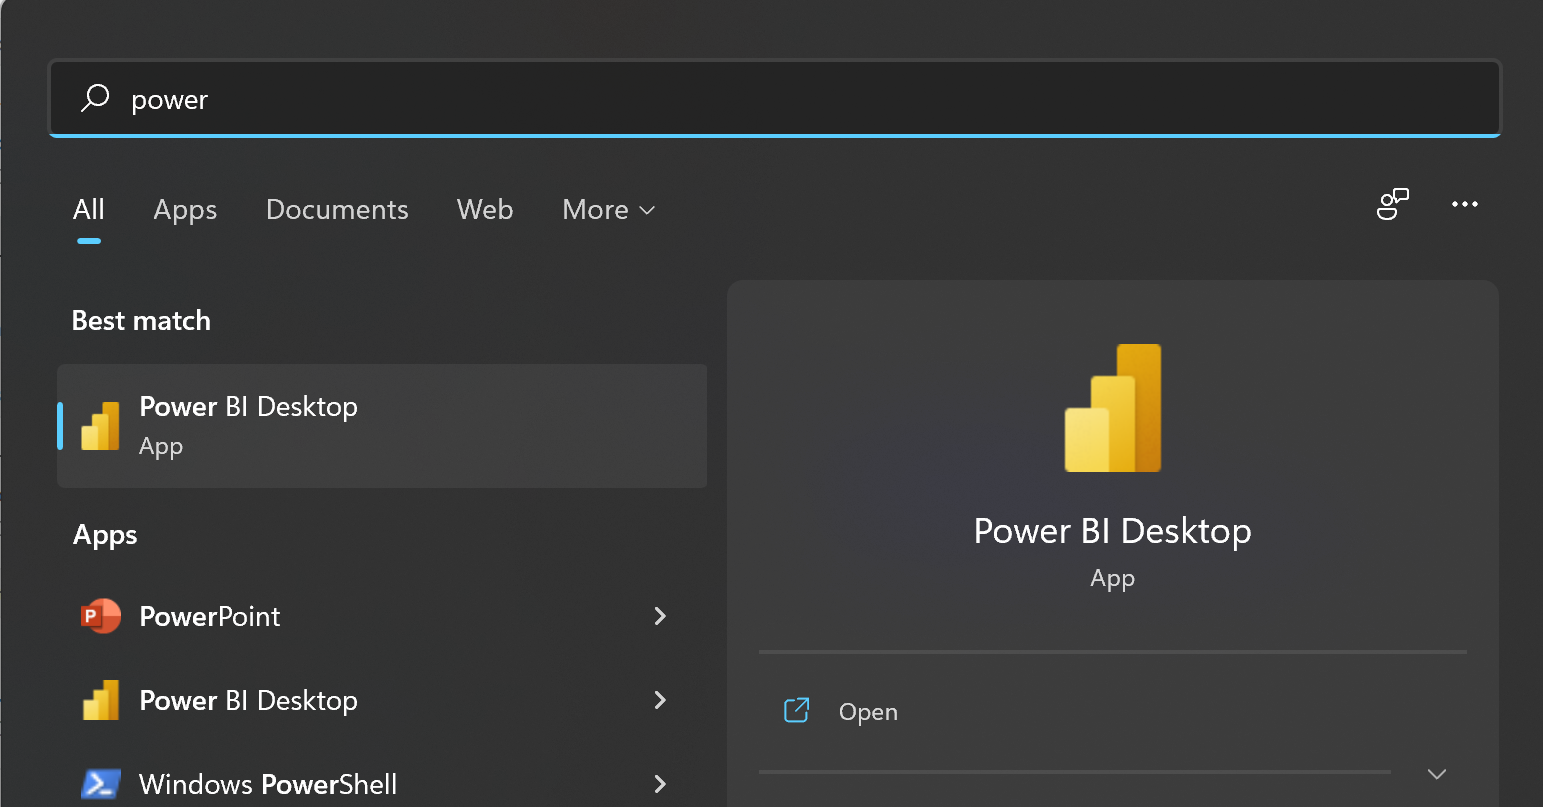
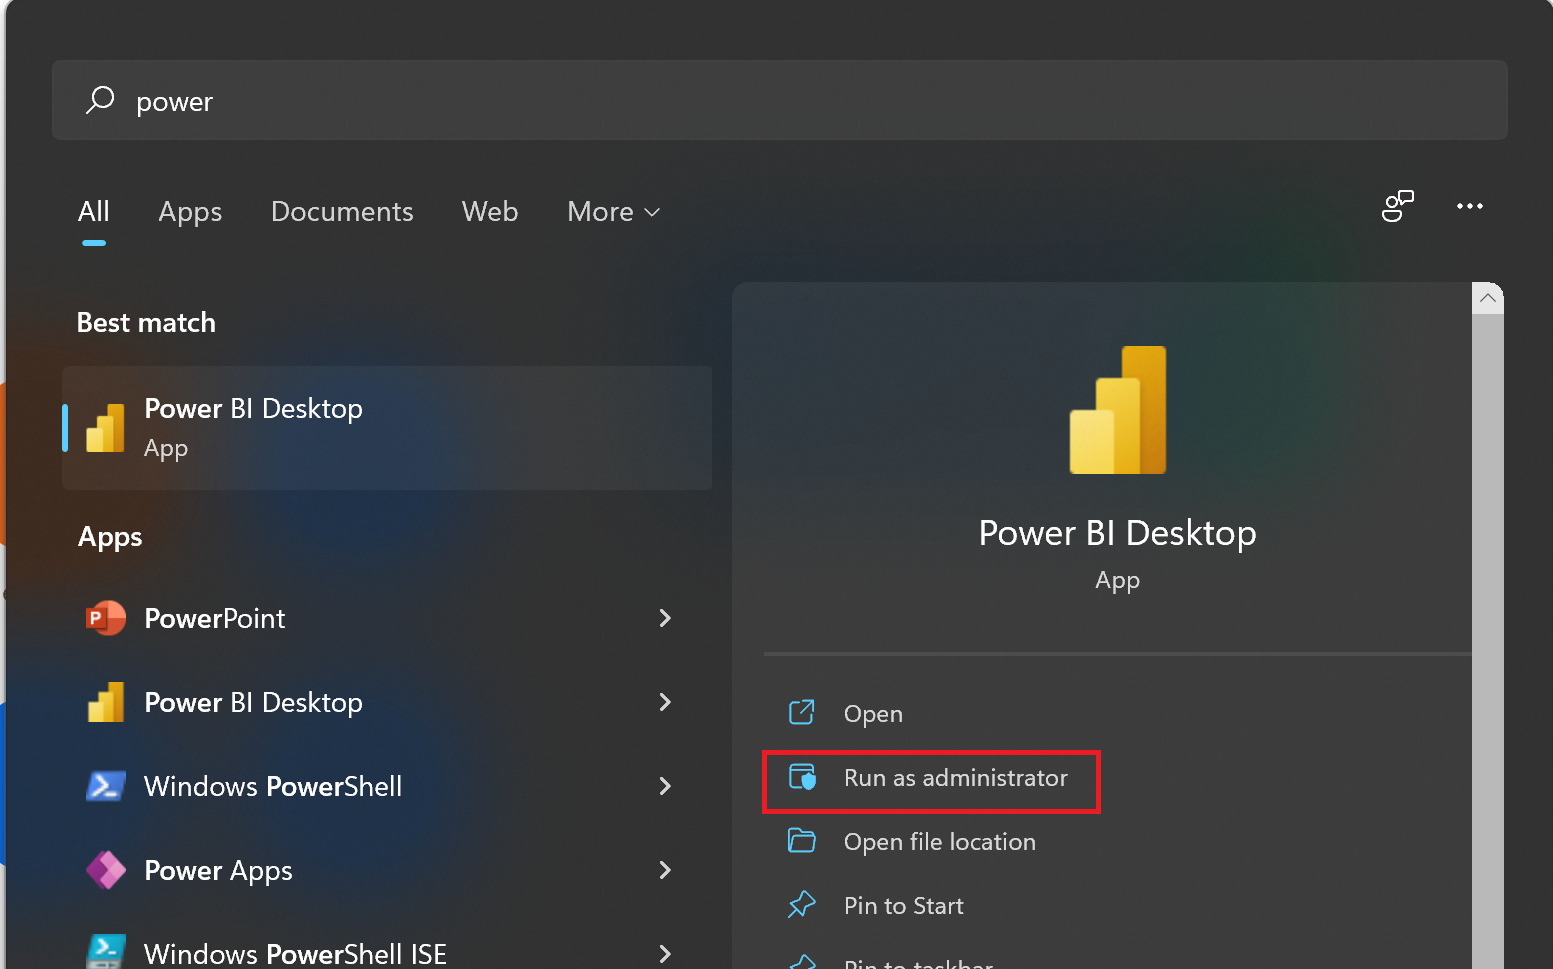
updates

diff --git a/_posts/2022-03-13-Create-PowerBI-Report-Using-Shopping-Cart-Data-in-AstraDB.md b/_posts/2022-03-13-Create-PowerBI-Report-Using-Shopping-Cart-Data-in-AstraDB.md
@@ -50,7 +50,7 @@ By the end of this article, the reader should be able to create a Power BI repor
         <img src="/img/posts/odbc-driver-test-results.png" alt="Test ODBC Driver" width="650">
             - should show that test test was successful
 - Create the Power BI Report
-    - Start Power BI
+    - Start Power BI in Administrator mode
     <img src="/img/posts/start-power-bi-desktop.png" alt="Start Power BI Desktop" width="650">
     - Click Get Data
     <img src="/img/posts/power-bi-desktop-get-data.png" alt="Power BI Get Data" width="650">
